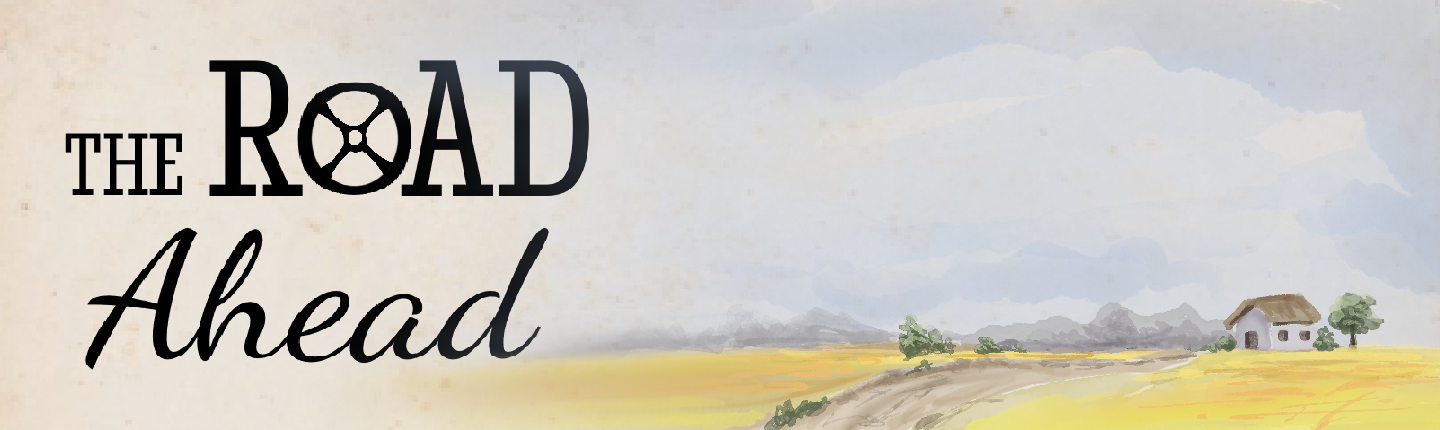
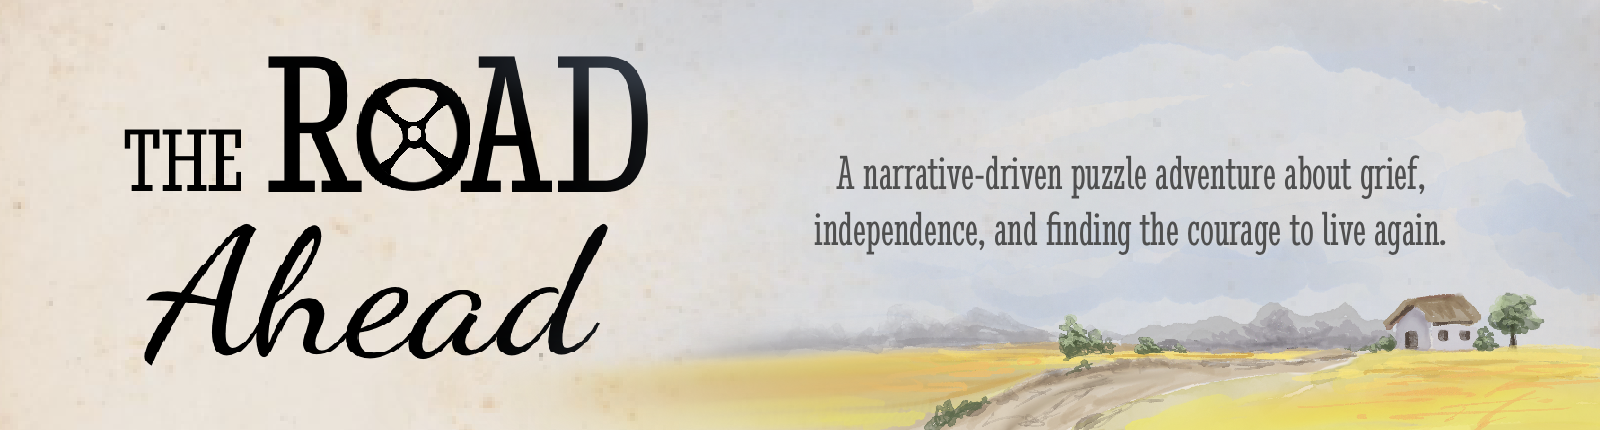
Add files via upload

diff --git a/index.html b/index.html
@@ -11,7 +11,8 @@
     <!-- Font import -->
     <link rel="preconnect" href="https://fonts.googleapis.com">
     <link rel="preconnect" href="https://fonts.gstatic.com" crossorigin>
-    <link href="https://fonts.googleapis.com/css2?family=Voltaire&display=swap" rel="stylesheet">
+    <link href="https://fonts.googleapis.com/css2?family=Dancing+Script:wght@400..700&family=Stint+Ultra+Condensed&display=swap" rel="stylesheet">
+    <link href="https://fonts.googleapis.com/css2?family=Roboto:ital,wght@0,100..900;1,100..900&display=swap" rel="stylesheet">
 
 
     <style>
@@ -37,15 +38,15 @@
             z-index: 1000;
             width: 100%;
             padding: 15px 20px;
-            background-color: #7f7f7f;
+            background-color: #1A1A1A;
             display: flex;
             align-items: center;
         }
 
             nav a {
-                font-family: 'Voltaire', sans-serif;
+                font-family: "Stint Ultra Condensed", serif;
                 font-weight: bold;
-                color: #1A1A1A;
+                color: #ffff;
                 text-decoration: none;
             }
 
@@ -66,7 +67,7 @@
 
 
             .home-link span {
-                font-family: 'Voltaire', sans-serif;
+                font-family: "Stint Ultra Condensed", serif;
                 font-size: 1.5rem;
             }
 
@@ -80,21 +81,26 @@
         }
 
             .nav-center a {
-                font-family: 'Voltaire', sans-serif;
+                font-family: "Stint Ultra Condensed", serif;
                 font-weight: bold;
-                font-size: clamp(1rem, 1.5vw, 1.2rem);
-                color: #1A1A1A;
+                font-size: clamp(1.2rem, 1.7vw, 1.4rem);
+                color: #ffff;
                 text-decoration: none;
             }
 
-                .nav-center a:hover {
-                    text-decoration: underline;
-                }
+        .nav img {
+            height: 10%;
+            width: 10%;
+        }
+
+        .nav-center a:hover {
+            text-decoration: underline;
+        }
 
         /* Hero title */
 
-        h1 {
-            font-family: 'Voltaire', sans-serif;
+        /* h1 {
+            font-family: "Stint Ultra Condensed", serif;
             margin: 0;
             font-size: clamp(4rem, 10vw, 9rem);
             line-height: 1.05;
@@ -106,29 +112,32 @@
         /* Hero section */
 
         .hero {
-            min-height: 500px;
-            padding-left: clamp(40px, 8vw, 150px);
-            padding-right: clamp(20px, 5vw, 100px);
-            background-image: url("images/TheRoadAhead_Hero.png");
+            /*  padding-left: clamp(40px, 8vw, 150px);
+            padding-right: clamp(20px, 5vw, 100px);*/
             background-size: cover;
             background-position: center;
             display: flex;
             flex-direction: column;
             justify-content: center;
             align-items: left;
+            overflow: hidden;
         }
 
+            .hero img {
+                width: 100%;
+                height: 100%;
+                object-fit: cover;
+            }
 
             /* Hero description */
 
             .hero p {
                 max-width: 600px;
                 margin-top: 20px;
-                font-family: 'Voltaire', sans-serif;
+                font-family: "Stint Ultra Condensed", serif;
                 font-size: clamp(1rem, 2vw, 1.3rem);
                 line-height: 1.5;
-                color: #ffff;
-
+                color: #1A1A1A;
             }
 
 
@@ -145,28 +154,28 @@
             }
         }
 
-        .about-section {
+        .concept {
             padding-left: clamp(40px, 8vw, 150px);
             padding-right: clamp(20px, 5vw, 100px);
         }
 
-            .about-section h2 {
-                font-family: 'Voltaire', sans-serif;
+            .concept h2 {
+                font-family: "Stint Ultra Condensed", serif;
                 font-size: clamp(2rem, 5vw, 3rem);
-                color: #ffff;
+                color: #EAE2D7;
                 margin-top: -50px;
             }
 
-            .about-section p {
-                max-width: 800px;
-                font-family: 'Voltaire', sans-serif;
+            .concept p {
+                max-width: 700px;
+                font-family: "Roboto", sans-serif;
                 font-size: clamp(1rem, 2vw, 1.3rem);
                 line-height: 1.5;
                 color: #ffff;
             }
 
-        .contact-box{
-            font-family: 'Voltaire', sans-serif;
+        .contact-box {
+            font-family: "Stint Ultra Condensed", serif;
             color: #ffff;
         }
         /* Footer */
@@ -175,10 +184,10 @@
             text-align: center;
         }
 
-        footer p {
-            font-family: 'Voltaire', sans-serif;
-            color: #ffff;
-        }
+            footer p {
+                font-family: "Stint Ultra Condensed", serif;
+                color: #ffff;
+            }
     </style>
 
 
@@ -190,13 +199,12 @@
 
     <nav>
         <a href="index.html" class="home-link">
-            <img src="images/Logo.png" alt="Home">
-            <span>The Road Ahead</span>
+            <img src="images/TheRoadAhead_BlackLogo22.png" alt="Home">
         </a>
         <div class="nav-center">
-            <a href="">Link</a>
-            <a href="">Link</a>
-            <a href="">Link</a>
+            <a href="html/AboutUs.html">ABOUT US</a>
+            <a href="htmlf/DevBlog.html"/>DEVBLOG</a>
+            <a href=""></a>
         </div>
     </nav>
 
@@ -206,24 +214,19 @@
 
         <!-- Hero -->
 
+
         <header class="hero">
-
-            <h1>
-            
-            </h1>
-
+            <img src="images/TheRoadAhead_Hero.png" alt="The Road Ahead (Game Title)">
             <p>
-                A narrative-driven puzzle adventure that lets you step into the
-                life of a grieving widow as she learns to find her way back into
-                the world, one challenge at a time.
+                A narrative-driven puzzle adventure about grief, independence, and finding the courage to live again
             </p>
 
         </header>
 
 
-        <section class="about-section">
+        <section class="concept">
 
-            <h2>Concept </h2>
+            <h2>CONCEPT </h2>
             <p>
                 The Road Ahead is a narrative-driven puzzle adventure about grief,
                 independence, and finding the courage to live again. On a farm in
@@ -234,8 +237,12 @@
                 step back into the world on her own.
             </p>
 
-        </section>
 
+        </section>
+        <section class="trailer"></section>
+        <h2>TRAILER</h2>
+            <!-- Traler here -->
+        </section>
 
         <!-- Contact box -->
 
